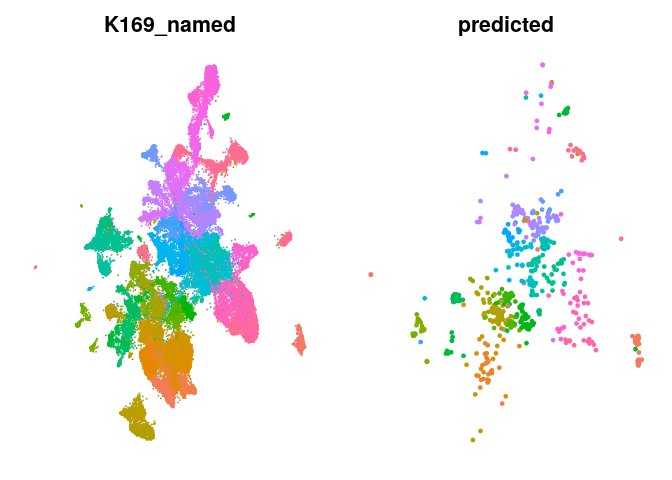
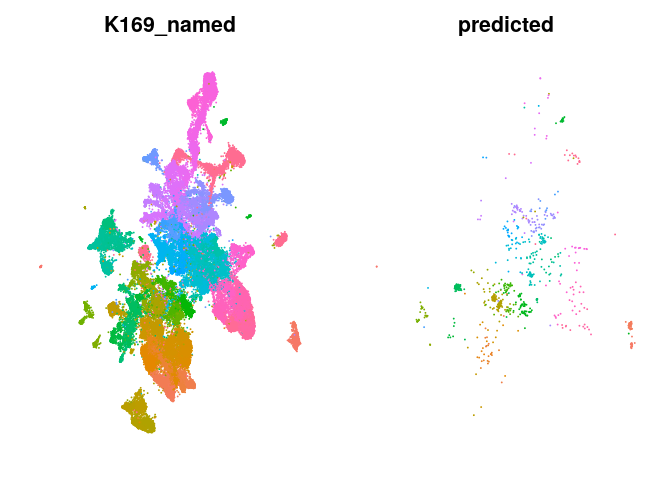
use same axes limit for plots and smaller pt size for query cells

diff --git a/README.md b/README.md
@@ -104,7 +104,7 @@ parameters to further adjust the plots. E.g. by decreasing the size of
 the labels.
 
 ``` r
-plot_query_labels(query_seura_object=query_romanov,reference_seurat=reference_hypoMap,label_col="K169_named",overlay = TRUE,overlay_pt_size = 0.4,labelonplot = TRUE,label.size=1)
+plot_query_labels(query_seura_object=query_romanov,reference_seurat=reference_hypoMap,label_col="K169_named",overlay = TRUE,query_pt_size = 0.4,labelonplot = TRUE,label.size=1)
 ```
 
 <img src="man/figures/README-unnamed-chunk-9-1.png" width="100%" />
@@ -273,7 +273,7 @@ plot_query_labels(query_seura_object=lamanno_seurat_object,reference_seurat=refe
 <img src="man/figures/README-unnamed-chunk-17-1.png" width="100%" />
 
 ``` r
-plot_query_labels(query_seura_object=lamanno_seurat_object,reference_seurat=reference_hypoMap,label_col="K169_named",overlay = TRUE,overlay_pt_size = 0.4,labelonplot = TRUE,label.size=1)
+plot_query_labels(query_seura_object=lamanno_seurat_object,reference_seurat=reference_hypoMap,label_col="K169_named",overlay = TRUE,query_pt_size = 0.4,labelonplot = TRUE,label.size=1)
 ```
 
 <img src="man/figures/README-unnamed-chunk-18-1.png" width="100%" />
